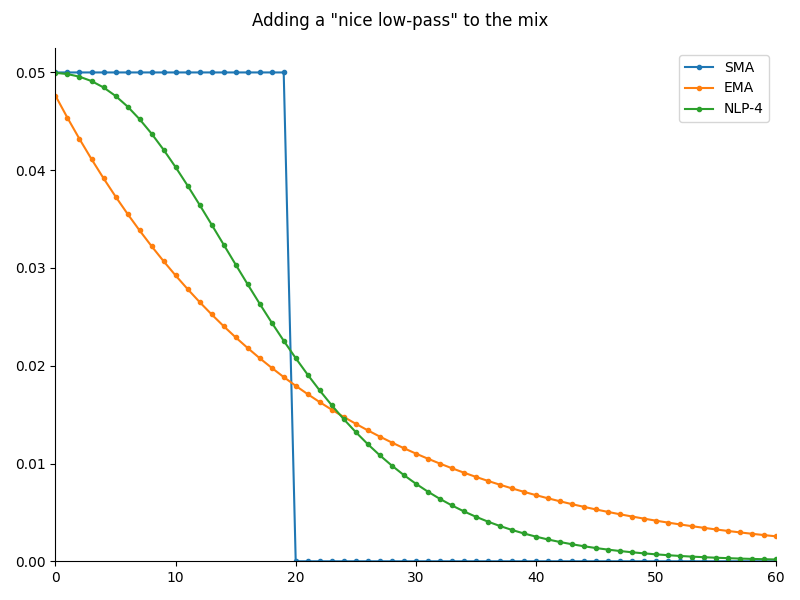
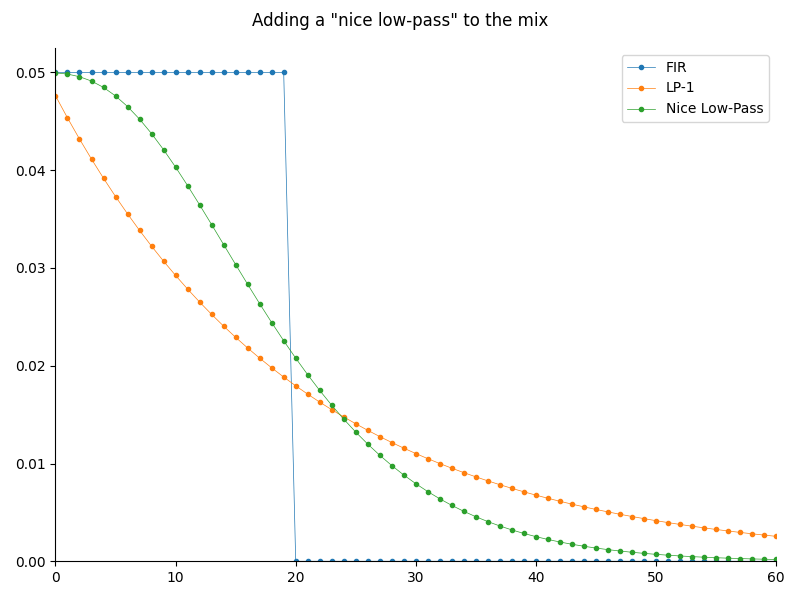
NLP WIP

diff --git a/src/python/nice_lowpass.py b/src/python/nice_lowpass.py
@@ -29,10 +29,10 @@ y_sma[(t >= 0) & (t < tau)] = 1/tau
 
 
 # plot & save
-def finalize_plot(tau: float, file_name: str, legend: bool=True) -> None:
+def finalize_plot(tau: float, file_name: str, legend: bool=True, y_lim: float=np.nan) -> None:
     ax.set_xticks(np.linspace(0, T, 7))
     ax.set_xlim(0, T)
-    ax.set_ylim(0, 1.05/tau)
+    ax.set_ylim(0, 1.05/tau if np.isnan(y_lim) else y_lim)
     ax.spines[['right', 'top']].set_visible(False)
     ax.xaxis.set_zorder(99)
     if legend:
@@ -44,34 +44,50 @@ def finalize_plot(tau: float, file_name: str, legend: bool=True) -> None:
 
 drawstyle = 'default'
 marker = '.'
+lw = 0.5
 figsize = [8, 6]
 
+# SMA & EMA
 fig, ax = plt.subplots(figsize=figsize)
 fig.suptitle('Simple and exponential moving averages')
-ax.plot(t, y_sma, marker=marker, drawstyle=drawstyle, label=f'SMA')
-ax.plot(t, lp1.impulse(T+1), marker=marker, drawstyle=drawstyle, label=f'EMA')
+ax.plot(t, y_sma, marker=marker, drawstyle=drawstyle, lw=lw, label=f'FIR')
+ax.plot(t, lp1.impulse(T+1), marker=marker, drawstyle=drawstyle, lw=lw, label=f'LP-1')
 finalize_plot(tau, "sma+ema.png")
 
+# # SMA, EMA & NLP
 fig, ax = plt.subplots(figsize=figsize)
 fig.suptitle('Adding a "nice low-pass" to the mix')
-ax.plot(t, y_sma, marker=marker, drawstyle=drawstyle, label=f'SMA')
-ax.plot(t, lp1.impulse(T+1), marker=marker, drawstyle=drawstyle, label=f'EMA')
-ax.plot(t, nlp4.impulse(T+1), marker=marker, drawstyle=drawstyle, label=f'NLP-4')
+ax.plot(t, y_sma, marker=marker, drawstyle=drawstyle, lw=lw, label=f'FIR')
+ax.plot(t, lp1.impulse(T+1), marker=marker, drawstyle=drawstyle, lw=lw, label=f'LP-1')
+ax.plot(t, nlp4.impulse(T+1), marker=marker, drawstyle=drawstyle, lw=lw, label=f'Nice Low-Pass')
 finalize_plot(tau, "sma+ema+nlp4.png")
 
-fig, ax = plt.subplots(figsize=figsize)
-fig.suptitle('Nice low-passes with varying order')
-ax.plot(t, y_sma, marker=marker, drawstyle=drawstyle, label=f'SMA')
-for order in [1, 2, 4, 8, 16]:
-    nlp = nice_lowpass(order=order, tau=tau)
-    label = f'NLP-{order}'
-    if order == 1:
-        label += f' = EMA'
-    ax.plot(t, nlp.impulse(T+1), marker=marker, drawstyle=drawstyle, label=label)
-finalize_plot(tau, "sma+nlps.png")
+# # NLPs
+# fig, ax = plt.subplots(figsize=figsize)
+# fig.suptitle('Nice low-passes with varying order')
+# ax.plot(t, y_sma, marker=marker, drawstyle=drawstyle, lw=lw, label=f'FIR')
+# for order in [1, 2, 4, 8, 16]:
+#     nlp = nice_lowpass(order=order, tau=tau)
+#     label = f'NLP-{order}'
+#     if order == 1:
+#         label += f' = EMA'
+#     ax.plot(t, nlp.impulse(T+1), marker=marker, drawstyle=drawstyle, lw=lw, label=label)
+# finalize_plot(tau, "sma+nlps.png")
 
+# bump
 fig, ax = plt.subplots(figsize=figsize)
 fig.suptitle('A "bump" function')
 lp4 = ZeroPole.lp1(w_pole=4/tau)**4
-ax.plot(t, lp4.impulse(T + 1), marker=marker, drawstyle=drawstyle)
+ax.plot(t, lp4.impulse(T + 1), marker=marker, drawstyle=drawstyle, lw=lw)
 finalize_plot(tau, "bump.png", legend=False)
+
+# EMA^n
+fig, ax = plt.subplots(figsize=figsize)
+fig.suptitle('EMAs applied multiple times')
+for order in [1, 2, 4]:
+    nlp = ZeroPole.lp1(w_pole=4/tau)**order
+    label = f'LP-{order}'
+    if order == 1:
+        label += f' = EMA'
+    ax.plot(t, nlp.impulse(T+1), marker=marker, drawstyle=drawstyle, lw=lw, label=label)
+finalize_plot(tau, "lps.png", y_lim=4.2/tau)
